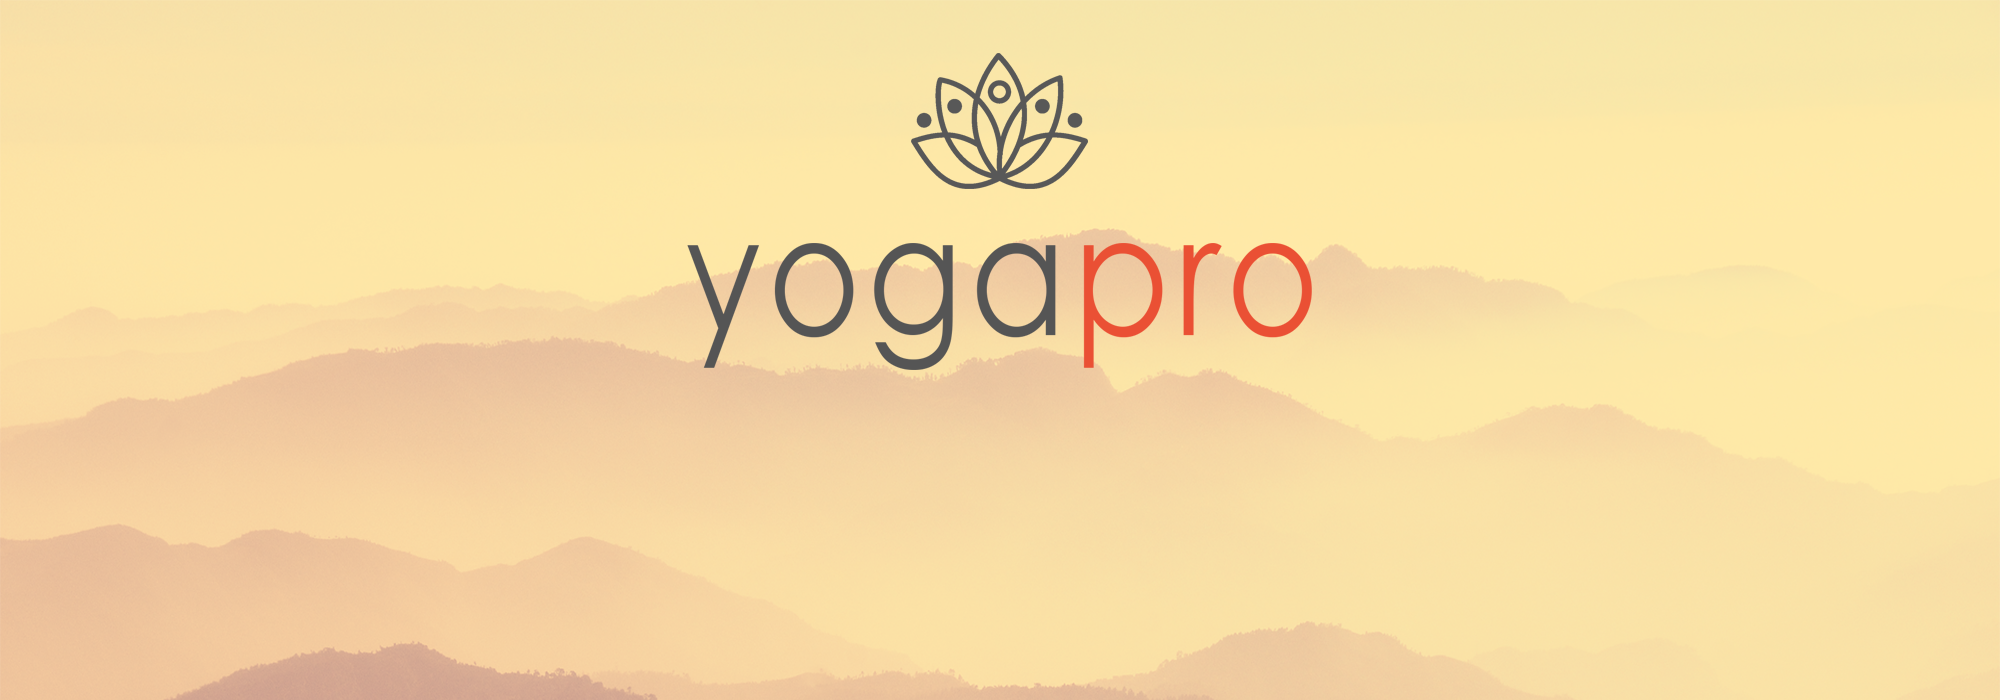
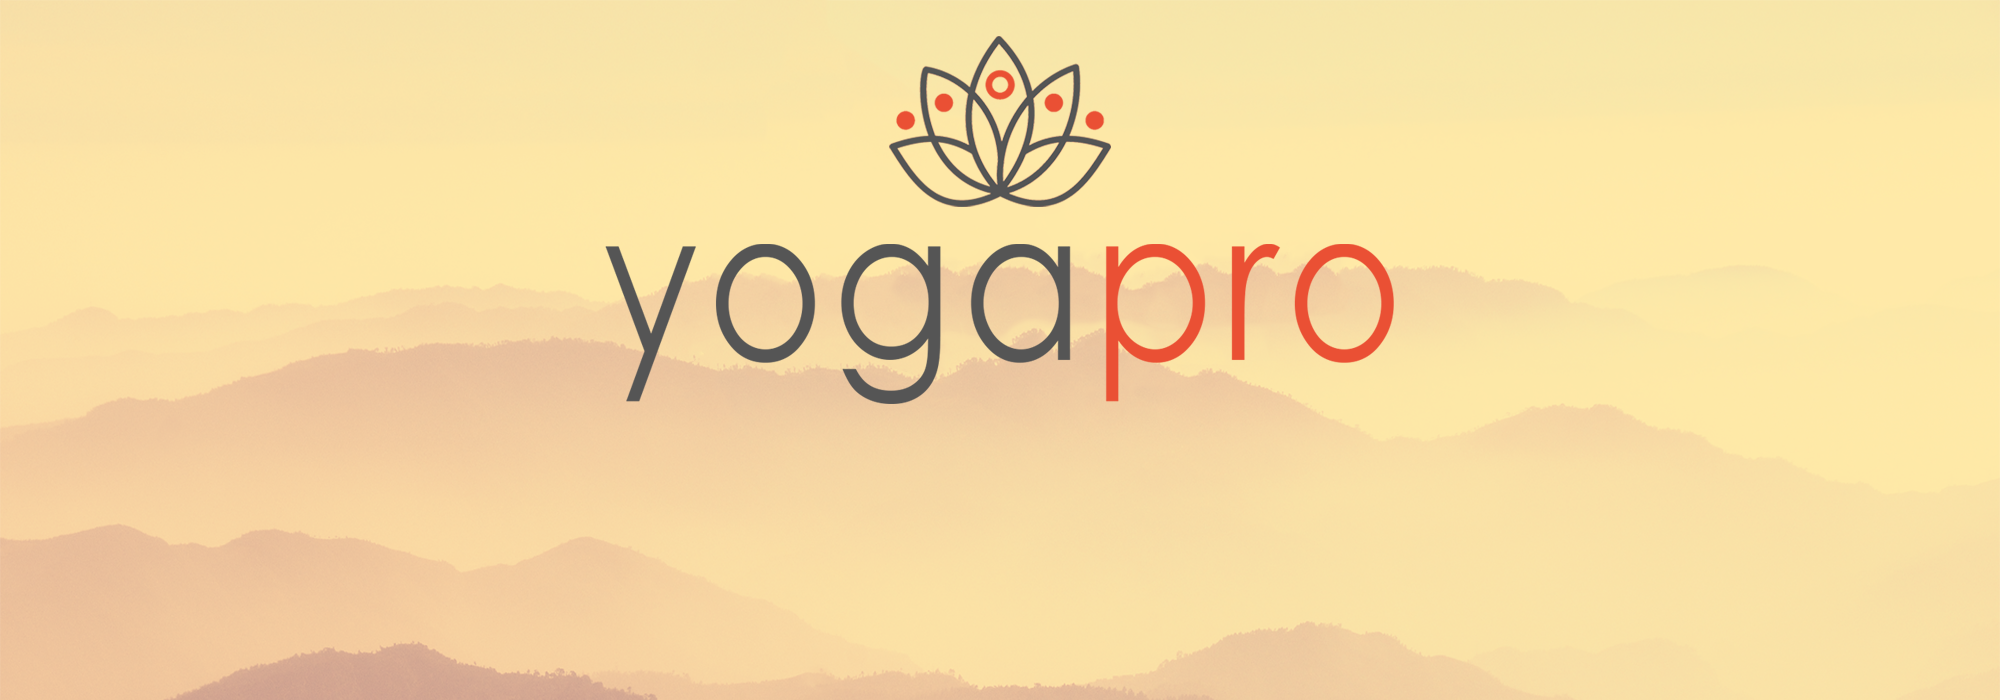
added successful login menu

Changed region(s): [[0.279, 0.33, 0.713, 0.6], [0.434, 0.06, 0.558, 0.3]]

diff --git a/src/App.js b/src/App.js
@@ -5,12 +5,48 @@ import Login from './Login.js';
 import HomePage from './HomePage.js';
 import DashboardLogin from './DashboardLogin.js';
 import './App.css';
+import image2 from './img/prologo1.png';
 import { Link } from 'react-router-dom';
 import { Route } from 'react-router';
 
 
 class App extends Component {
+
+  constructor(props) {
+    super(props)
+
+    this.state = {
+      isLoggedIn: false
+
+    }
+  }
+
+successfulLogin() {
+  this.setState({
+    isLoggedIn: true
+  });
+}
+
+unSuccessfulLogin() {
+  this.setState({
+    isLoggedIn: false
+  })
+}
+
   render() {
+
+    var navWorkout = <li className="nav-item">
+    <a className="nav-link" href="/workout">Workout</a>
+  </li>
+
+  var navMyWorkouts = <li className="nav-item">
+  <a className="nav-link" href="/my_workouts">My Workouts</a>
+</li>
+
+ if(!this.state.isLoggedIn) {
+  navWorkout = ""
+  navMyWorkouts = ""
+ }
     return (
 
       <div>
@@ -18,7 +54,7 @@ class App extends Component {
           <div className="container">
             <nav className="navbar navbar-light bg-faded">
               <a className="navbar-brand" href="/">
-                <img src="https://www.logoai.com/uploads/icon/2017/06/29/14987185028816686.svg" width="90" height="47" alt=""/>
+                <img src={image2} width="70" height="55" alt=""/>
               </a>
            
             </nav>
@@ -27,14 +63,10 @@ class App extends Component {
               <li className="nav-item">
                 <a className="nav-link active" href="/">Home</a>
               </li>
+              {navWorkout}
+              {navMyWorkouts}
               <li className="nav-item">
-                <a className="nav-link" href="/workout">Workout</a>
-              </li>
-              <li className="nav-item">
-                <a className="nav-link" href="/my_workouts">My Workouts</a>
-              </li>
-              <li className="nav-item">
-                <a className="btn btn-primary loginButton" href="/DashboardLogin">Log In</a>
+                <a className="btn btn-primary loginButton" href="/DashboardLogin">Login</a>
               </li>
             </ul>
 
@@ -47,7 +79,9 @@ class App extends Component {
         <Route path="/login" component={Login}/>
         <Route exact path="/" component={HomePage}/>
         <Route path="/about" component={DashboardLogin}/>
-        <Route path="/DashboardLogin" component={DashboardLogin}/>
+        <Route path="/DashboardLogin" render={() =>{
+          return <DashboardLogin successfulLogin={this.successfulLogin.bind(this)} unSuccessfulLogin={this.unSuccessfulLogin.bind(this)}/>
+          }} />
 
         <div class="footerTest">
           <div id="motto">

diff --git a/src/HomePage.js b/src/HomePage.js
@@ -1,6 +1,8 @@
 import React, { Component } from 'react';
 import './HomePage.css';
 import image from './img/yogapro.png';
+import Panel from './img/YogaPanel.png';
+import Panel2 from './img/YogaPanel2.png';
 
 class HomePage extends Component {
 
@@ -15,12 +17,12 @@ class HomePage extends Component {
           <div className="row">
             <div className="col-xl-9 mx-auto">
               <img src={image} width="850" height="300" alt="No Image"/>
-              <div><a className="btn btn-primary menuButton" href="/workout">Workout Now!</a></div>
+              <div><a className="btn btn-primary menuButton" href="/DashboardLogin">LOGIN</a></div>
             </div>
           </div>
         </div>
       </header>
-      <h3 className="yogaBenifits">Benefits From Yoga</h3>
+      <h3 className="yogaBenifits">Yoga Benefits</h3>
       <section className="features-icons text-center">
             <div className="container">
               <div className="row">
@@ -56,6 +58,16 @@ class HomePage extends Component {
 
           <div class="row" id="box-search">
     <div class="thumbnail text-center">
+        <img src={Panel} alt="" />
+        <div class="caption">
+            <p>DROP AND GIVE ME ZEN</p>
+        </div>
+    </div>
+</div>
+
+
+          <div class="row" id="box-search">
+    <div class="thumbnail text-center">
         <img src="https://static1.squarespace.com/static/550c9cd6e4b0e1eb26527726/t/58e3cf1703596e548661fac8/1512418113229/background.jpg?format=1500w" alt="" class="img-responsive"/>
         <div class="yogaCaption">
             <p>yogapro</p>
@@ -66,15 +78,14 @@ class HomePage extends Component {
     </div>
 </div>
 
-          <div class="row" id="box-search">
+<div class="row" id="box-search">
     <div class="thumbnail text-center">
-        <img src="http://www.dreams.metroeve.com/wp-content/uploads/2016/05/Zen.jpg" alt="" class="img-responsive"/>
+        <img src={Panel2} alt="" />
         <div class="caption">
             <p>DROP AND GIVE ME ZEN</p>
         </div>
     </div>
 </div>
-
 
       </div>
           );

diff --git a/src/WorkoutScreen.js b/src/WorkoutScreen.js
@@ -403,23 +403,33 @@ class WorkoutScreen extends Component {
 
 		return (
 			
-		    <div className="container" id="topDiv">
-				{stepOne}
-		    	<div className="row">
-		      		{workoutCards}
-		        	<div className="col-lg-12">
-		        		{yogaForm}
-		        	</div>
-		        </div>
-		        <div className="row">
-		        	<div className="workoutScreen col-lg-12">
-		        		<div id="result">
-			            	{finalTable}
+		    <div id="topDiv">
+				<div className="container">
+					{stepOne}
+					<div className="row">
+						{workoutCards}
+						<div className="col-lg-12">
+							{yogaForm}
+						</div>
+					</div>
+				</div>
+				<div className="container">
+					<div className="row no-gutters">
+						<div className="workoutScreen col-lg-12">
+							<div id="result">
+								{finalTable}
+							</div>
+						</div>
+					</div>
+				</div>
+				<div className="container-fluid">
+					<div className="row no-gutters">
+						<div className="workoutScreen col-lg-12">
 							{workout}
 							{youtube}
-		            	</div>
-		          	</div>
-		       	</div>
+						</div>
+					</div>
+				</div>
 		    </div>
 		)
 	}

diff --git a/src/Workout.css b/src/Workout.css
@@ -14,7 +14,7 @@ padding-top:50px;
     padding-top: 70px;
     
    margin-left: 35px;
-    width: 1000px;
+   
 }
 
 .card-time {
@@ -25,23 +25,20 @@ padding-top:50px;
         font-weight: 300;
         font-size: 2.5em;
    
-        width: 1000px;
+    
         margin-left: 35px;
       
 }
 
 .card-img-top-pic {
     border: 3px solid blue;
-    margin-left: 25em;
-    height: 400px;
-    width: 400px;
+    text-align: center;
 }
 
 .resultBackground {
-    background-image: url('./img/yogapro-mac.png');
-    background-size: 1100px 800px;
+    background-image: url('https://d2v9y0dukr6mq2.cloudfront.net/video/thumbnail/S7FfzzQmliwca04xu/beautiful-sky-and-sea-at-dusk-background-reflections-in-the-calm-water_htbkgffkhe_thumbnail-full01.png');
+    background-size: cover;
     background-repeat: no-repeat;
-    height: 1000px;
 }
 
 #topdiv {

diff --git a/src/Youtube.js b/src/Youtube.js
@@ -10,21 +10,21 @@ class YoutubePlayer extends Component {
             height: '390',
             width: '640',
             playerVars: { // https://developers.google.com/youtube/player_parameters
-              autoplay: 1
+              autoplay: 0
             }
           };
 		return (
             <YouTube
-          videoId="M7lc1UVf-VE"
+          videoId="cI4ryatVkKw"
           opts={opts}
           onReady={this._onReady}
-        />
+        />  
       );
     }
    
     _onReady(event) {
       // access to player in all event handlers via event.target
-      event.target.pauseVideo();
+      
     }
   }
    

diff --git a/src/Workout.js b/src/Workout.js
@@ -11,10 +11,12 @@ class Workout extends Component {
 	render () {
 		return (
 			<div className="resultBackground">
-			<div className=" col-lg-6">
+			<div className=" col-lg-12">
 				<h4 className="title-pic">{this.props.pose}</h4>
 				<h4 className="card-time">{this.props.time}</h4>
-	        	<img className="card-img-top-pic" src={this.props.posePicture} alt="pose"/>
+			</div>
+			<div className="col-sm-12" align="center">
+	        	<img className="img-top-pic" src={this.props.posePicture} alt="pose"/>
 	      	</div>
 			</div>
 		)

diff --git a/src/DashboardLogin.js b/src/DashboardLogin.js
@@ -46,6 +46,7 @@ class DashboardLogin extends Component {
       name: response.profileObj.name,
       tokenExpiresAt: response.tokenObj.expires_at,});
     this.props.history.push('/');
+    this.props.successfulLogin()
     return response;
   }
 
@@ -57,6 +58,7 @@ class DashboardLogin extends Component {
       .then((resp) => {
         _this.props.notifications.add('danger', `Sorry, there was a problem. Details: ${resp.message}`);
       })
+      this.props.unSuccessfulLogin()
   }
 
   parseJSON(response) {

diff --git a/src/DashboardLogin.css b/src/DashboardLogin.css
@@ -16,11 +16,12 @@
     margin: 15px auto;
     padding: 15px;
     padding-left: 20px;
-    width: 200px;
+    width: 230px;
     text-align: left;
     color: white;
     border: none;
     outline: none;
+    font-size: 20px;
   }
   
   .btn-login:hover, 
@@ -51,6 +52,6 @@
   }
   
   .img-responsive {
-  height:700px;
+  height:650px;
   width: 100%;
   }

diff --git a/src/HomePage.css b/src/HomePage.css
@@ -65,11 +65,12 @@ header.masthead {
 .menuButton {
   margin-top: 30px;
   margin-bottom: 20px;
-  width: 170px;
+  width: 190px;
   height: 70px;
   background: rgba(236,80,51, 0.5); /* Green background with 30% opacity */
   font-family: 'Century Gothic';
-  padding-top: 25px;
+  font-size: 25px;
+  padding-top: 20px;
 }
 
 .menuButton:hover {

diff --git a/src/WorkoutScreen.css b/src/WorkoutScreen.css
@@ -57,6 +57,10 @@
   text-align: center;
 }
 
+.container-fluid {
+  padding: 0;
+}
+
 .topTableText {
  text-align: left; 
 }

diff --git a/src/Youtube.css b/src/Youtube.css
@@ -1,3 +1,3 @@
 iframe {
-    display:none;
+    display:;
 }

diff --git a/README.md b/README.md
@@ -1,10 +1,9 @@
-# YogApp
-Yoga Application
-The Kindness Yoga application is a web application that is designed to give users the ability to pick areas of the body they want to do their work out to. Yoga is a spiritual and ascetic discipline that includes simple meditation and the adoption of specific bodily postures. Yoga is widely practiced for health and relaxation. 
+# Yogapro
+Yogapro is a web application that is designed to give users the ability to pick areas of the body they want to do their work out to. Yoga is a spiritual and ascetic discipline that includes simple meditation and the adoption of specific bodily postures. Yoga is widely practiced for health and relaxation. 
 
 Overview:
 
-Kindness Yoga gives the user a selection of body parts on which they would like to work out. First, the user selects the total duration of the yoga workout. The user can add and remove body types to generate yoga positions on. After the selection is made, the user can select the “Generate Workout” button. Based on the user’s selection, a random selection of positions is generated and displayed in a chart to the user. What makes our app different, is that the user can regenerate their workouts and receive different random workout yoga positions each time the button is clicked. The user can regenerate their workout as many times as they like before they begin their workout.
+Yogapro gives the user a selection of body parts on which they would like to work out. First, the user selects the total duration of the yoga workout. The user can add and remove body types to generate yoga positions on. After the selection is made, the user can select the “Generate Workout” button. Based on the user’s selection, a random selection of positions is generated and displayed in a chart to the user. What makes our app different, is that the user can regenerate their workouts and receive different random workout yoga positions each time the button is clicked. The user can regenerate their workout as many times as they like before they begin their workout.
 
 Application Steps:
 
